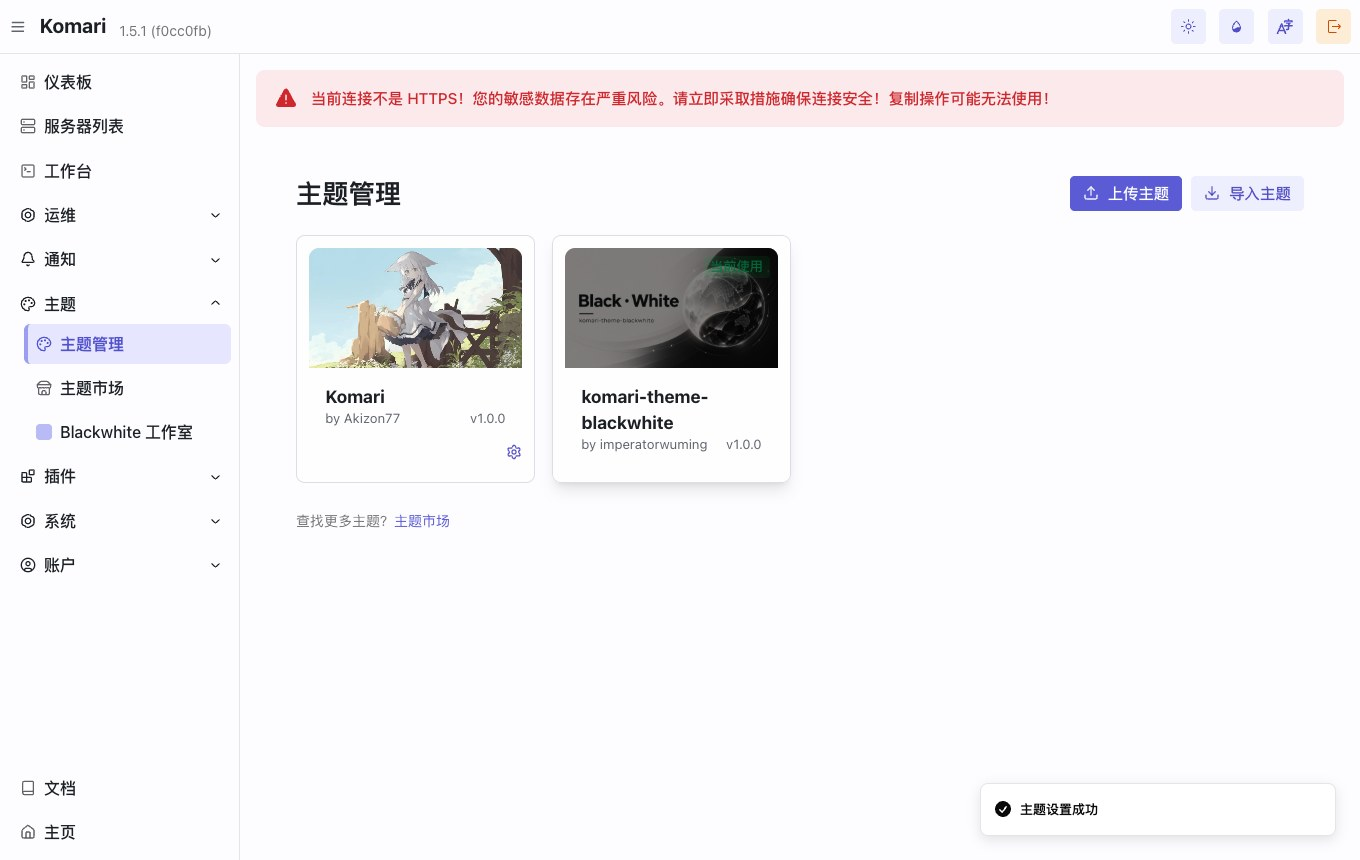
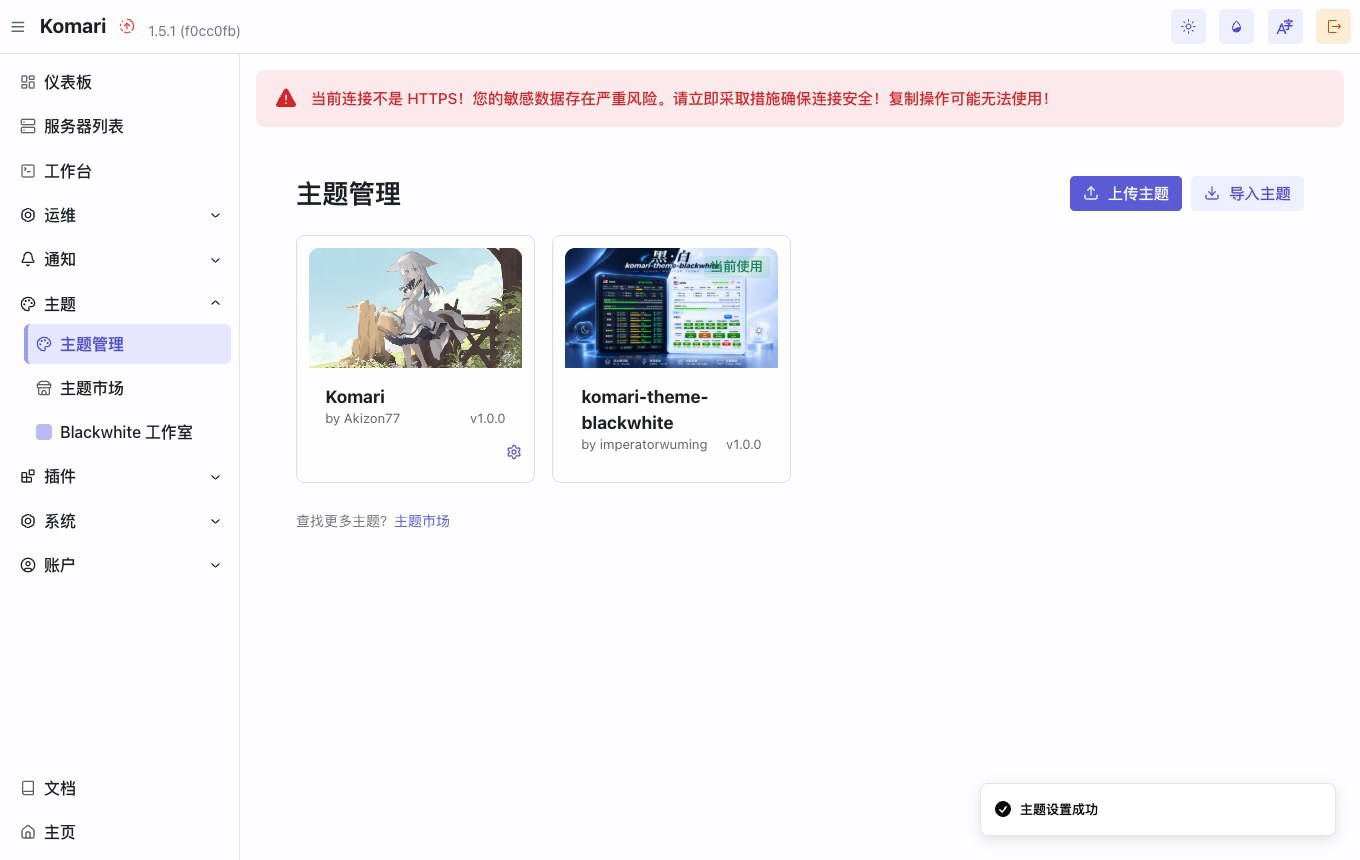
docs: refresh cover and anonymize screenshots for v1.0.0

Changed region(s): [[0.4015, 0.2721, 0.5868, 0.4535], [0.0926, 0.0302, 0.1853, 0.0605]]

diff --git a/network-observatory/README.md b/network-observatory/README.md
@@ -12,7 +12,7 @@
 
 ## 1. 安装面板插件
 
-1. 在 [Release v1.0.0](https://github.com/imperatorwuming/komari-theme-blackwhite/releases/tag/v1.0.0) 的 Assets 下载 **`Blackwhite-Network-Observatory-v1.0.0.zip`**。也可以下载同名 `.sha256`，在两份文件同一目录用 `sha256sum -c Blackwhite-Network-Observatory-v1.0.0.zip.sha256` 核验。
+1. 在 [Release v1.0.0](https://github.com/imperatorwuming/komari-theme-blackwhite/releases/latest) 的 Assets 下载 **`Blackwhite-Network-Observatory-v1.0.0.zip`**。也可以下载同名 `.sha256`，在两份文件同一目录用 `sha256sum -c Blackwhite-Network-Observatory-v1.0.0.zip.sha256` 核验。
 2. 登录 Komari 管理后台，进入 **插件 → 插件管理**，上传完整 ZIP。安装后打开插件的启用开关，检查权限内容并授权。
 3. 插件声明 Node 兼容运行环境、自定义 API 路由及系统 RPC 权限，其中系统 RPC 用于读取节点清单与管理员信息，检测由独立探测器本地执行。启用后确认插件状态为运行中，再回到主题的 **Blackwhite 工作室 → 网络观测**。
 4. 正式面板应使用探测器能够访问且证书有效的 **HTTPS** 地址。若使用反向代理，将面板页面和 `/api/blackwhite-network-observatory/` 一并转发到 Komari。确保 VPS 能访问该面板、GitHub 发布页与所选检测目标。
@@ -45,7 +45,7 @@ rc-status default
 如果想查看安装脚本后再执行，可先把它保存到文件。将下列地址与 UUID 换成面板提供的值，密钥仍在交互提示中输入。
 
 ```sh
-release=https://github.com/imperatorwuming/komari-theme-blackwhite/releases/download/v1.0.0
+release=https://github.com/imperatorwuming/komari-theme-blackwhite/releases/latest/download
 curl -fSLO "$release/Blackwhite-Network-Observatory-install.sh"
 curl -fSLO "$release/Blackwhite-Network-Observatory-install.sh.sha256"
 sha256sum -c Blackwhite-Network-Observatory-install.sh.sha256

diff --git a/.github/release-notes/v1.0.0+docs.1.md b/.github/release-notes/v1.0.0+docs.1.md
@@ -1,0 +1,11 @@
+# komari-theme-blackwhite v1.0.0
+
+本次更新使用新的「黑·白」封面，并重新截图。文档中的演示节点、分组、厂商和标签统一使用示例名称 White。
+
+- `komari-theme-blackwhite-v1.0.0.zip` 上传到 Komari 主题管理。
+- `Blackwhite-Network-Observatory-v1.0.0.zip` 上传到插件管理。Linux 探测器使用工作室提供的安装命令。
+- `preview.png` 为新版主题封面。
+
+主题、网络观测插件和 Linux 探测器的版本均为 **1.0.0**。
+
+[主题安装](https://github.com/imperatorwuming/komari-theme-blackwhite#安装主题) · [网络观测图文教程](https://github.com/imperatorwuming/komari-theme-blackwhite/blob/main/network-observatory/README.md) · [网络报告指南](https://github.com/imperatorwuming/komari-theme-blackwhite/blob/main/docs/network-reports.md)
